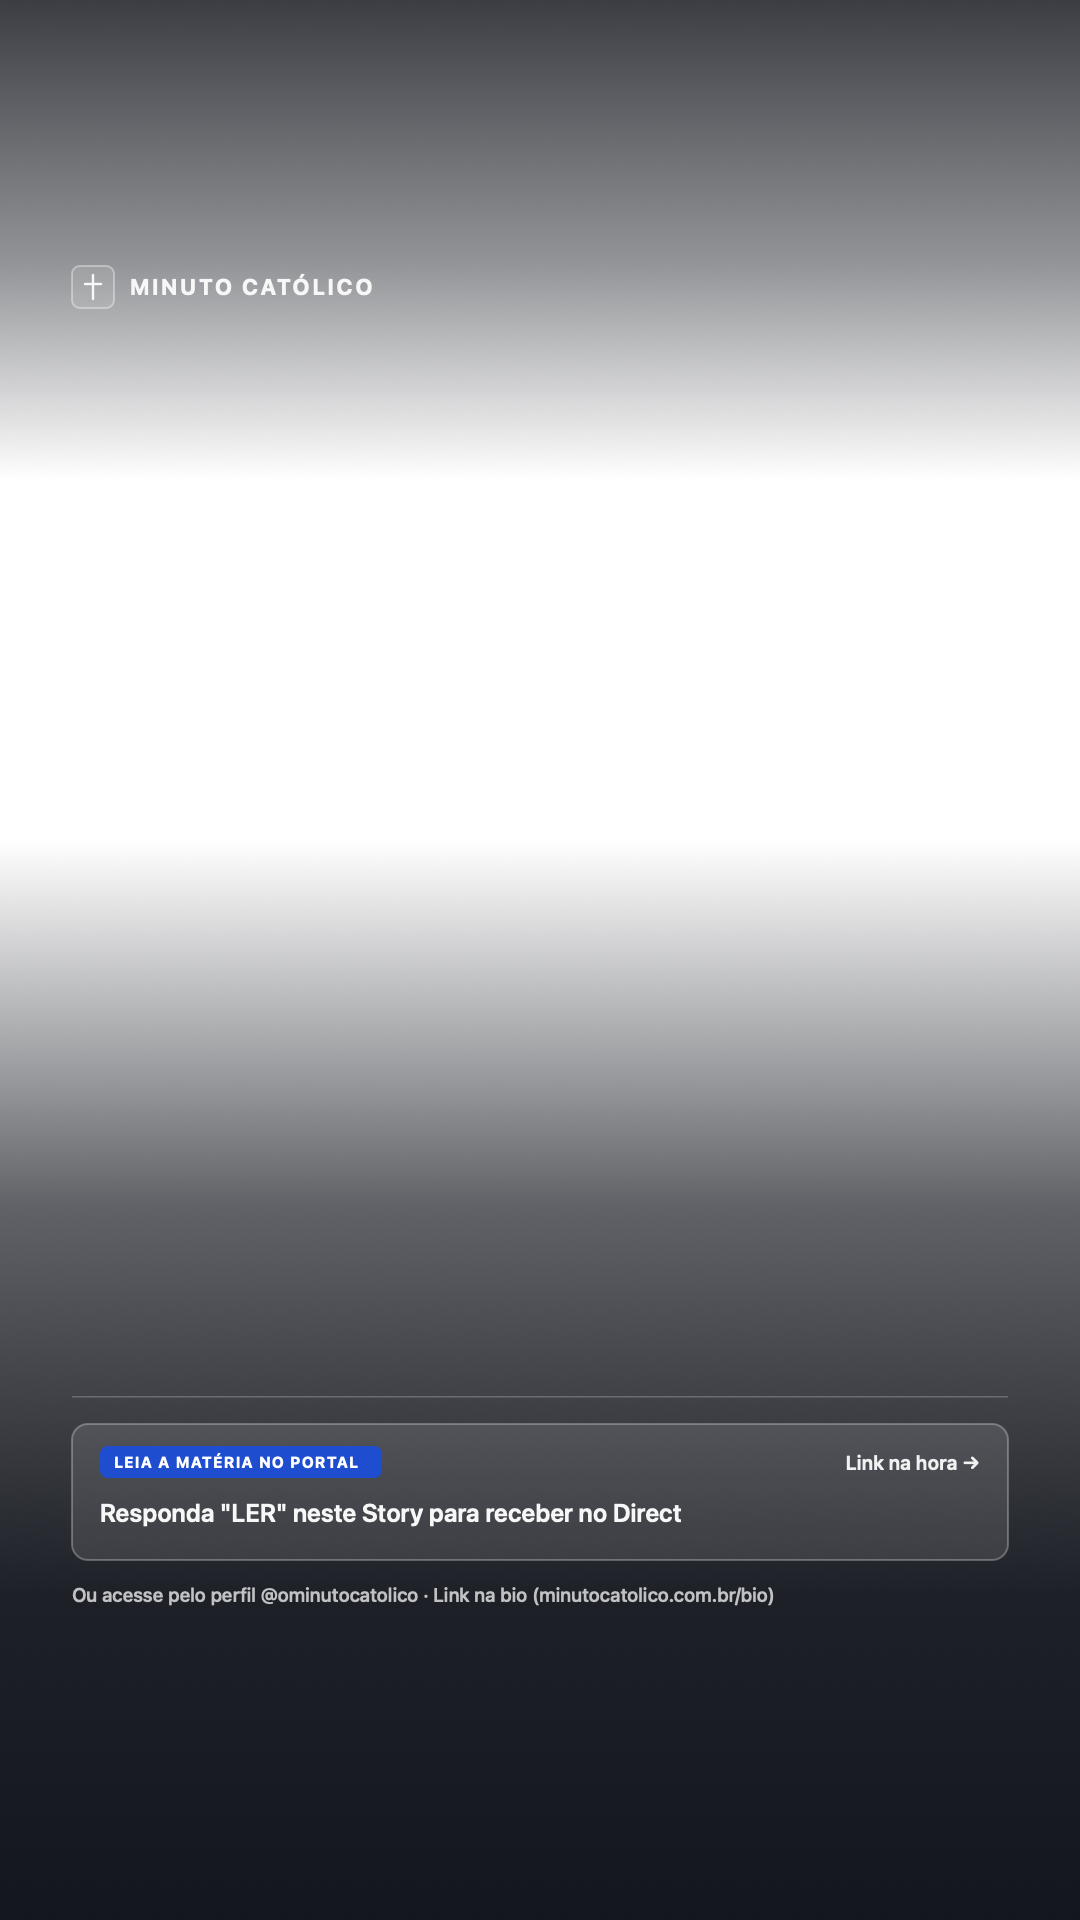
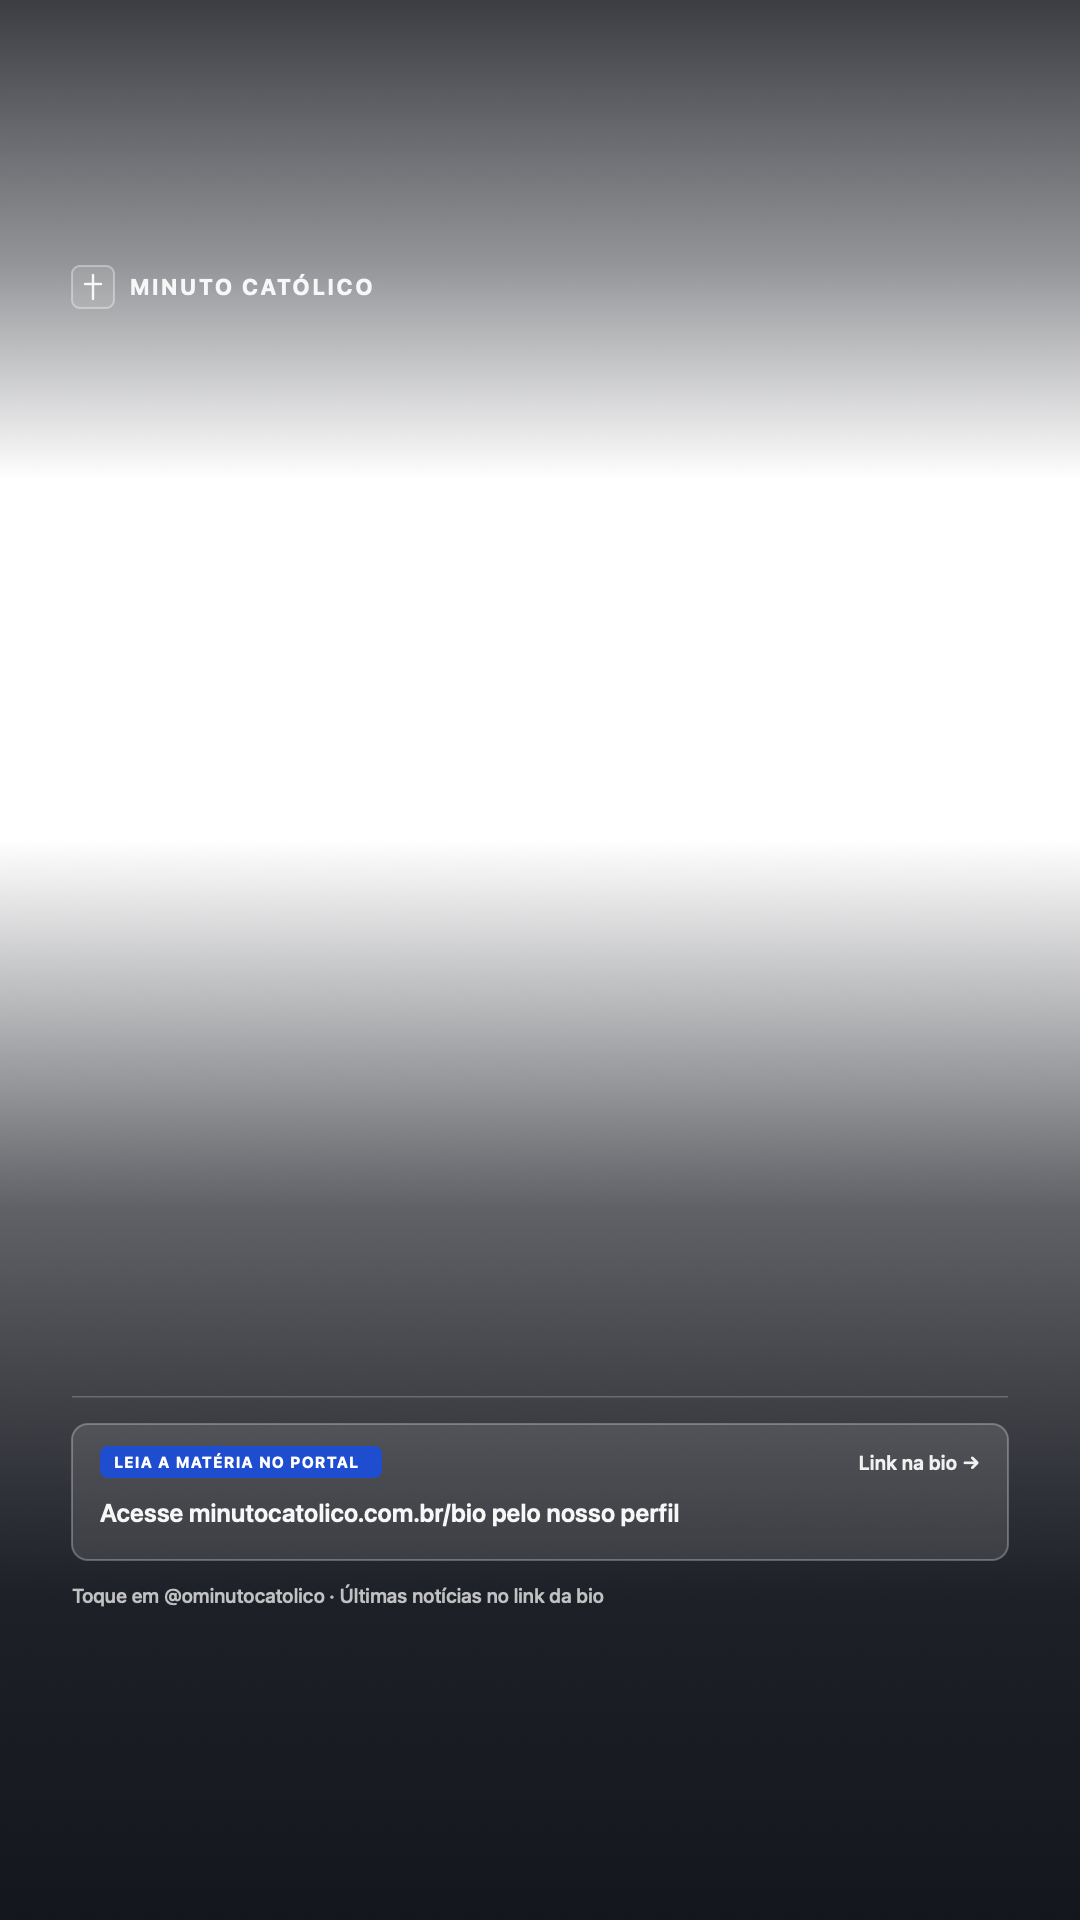
rollback: automação direct

Changed region(s): [[0.0611, 0.7812, 0.7028, 0.8438], [0.7944, 0.75, 0.8861, 0.7812]]

diff --git a/src/services/distribution/instagram-card.test.ts b/src/services/distribution/instagram-card.test.ts
@@ -110,7 +110,7 @@ describe("instagram-card — geração de card Cloudinary e legenda", () => {
     assert.ok(legenda.includes("Para os produtores, voltar ao encontro presencial"));
     assert.ok(!legenda.includes("Estados Unidos."));
     assert.ok(legenda.includes("Fonte original: EWTN News"));
-    assert.ok(legenda.includes("Comente LER ou LINK"));
+    assert.ok(legenda.includes("Leia a matéria completa no link da bio"));
     assert.ok(legenda.includes("minutocatolico.com.br/bio"));
     assert.ok(legenda.length <= 2_200);
   });

diff --git a/src/services/distribution/instagram-card.ts b/src/services/distribution/instagram-card.ts
@@ -425,7 +425,7 @@ export function montarLegendaInstagram(
 
   partes.push(
     `Fonte original: ${artigo.sourceName}`,
-    `Comente LER ou LINK para receber a matéria no Direct, ou acesse pelo link da bio (${dominio}/bio).`,
+    `Leia a matéria completa no link da bio (${dominio}/bio) ou acesse ${dominio}.`,
     montarHashtagsInstagram(artigo),
   );
 
